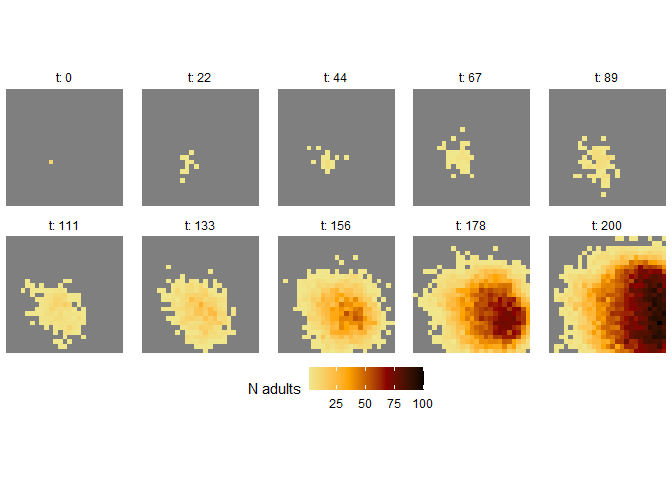
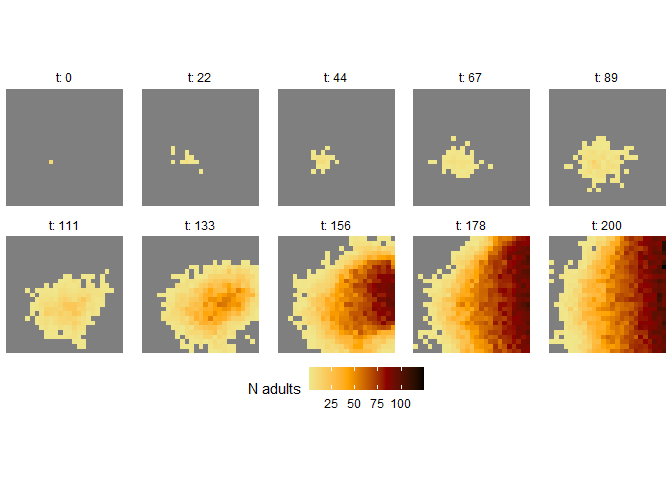
update readme

diff --git a/README.md b/README.md
@@ -68,10 +68,10 @@ function of population levels (density dependence) or environmental
 values (environmental dependence). A given transition probability is
 calculated as the intercept term from the `alpha` matrix, plus the
 coefficients from the `beta` array multiplied by population levels, plus
-coefficients from the `gamma` array multiplied by environmental values.
-In this example we’ll make juvenile survival depend on the environment,
-and we’ll make juvenile-adult transitions depend on the number of
-adults.
+the coefficients from the `gamma` array multiplied by environmental
+values. In this example we’ll make juvenile survival depend on the
+environment, and we’ll make juvenile-adult transitions depend on the
+number of adults.
 
 The other parameters control dispersal distances. Users can supply any
 arbitrary probability density function, but for now we’ll stick with the
@@ -82,18 +82,17 @@ parameter values.
 sp <- species_template(n_env = dim(ls$e)[4], names = stages)
 
 # invariant transitions
-sp$alpha["s", "j"] <- .01
-sp$alpha["a", "s"] <- .5
+sp$alpha["j", "s"] <- .01
 sp$alpha["a", "a"] <- .9
-sp$fecundity <- 200
+sp$fecundity["a"] <- 100
 
 # environmentally dependent juvenile survival
 sp$alpha["j", "j"] <- 0
 sp$gamma["j", "j", "v1"] <- 1
 
 # density dependent juvenile-adult transition
-sp$alpha["j", "a"] <- .1
-sp$beta["j", "a", "a"] <- -.001
+sp$alpha["a", "j"] <- .1
+sp$beta["a", "j", "a"] <- -.001
 
 # parameters for lognormal dispersal kernel
 sp$kernel$L <- .2
